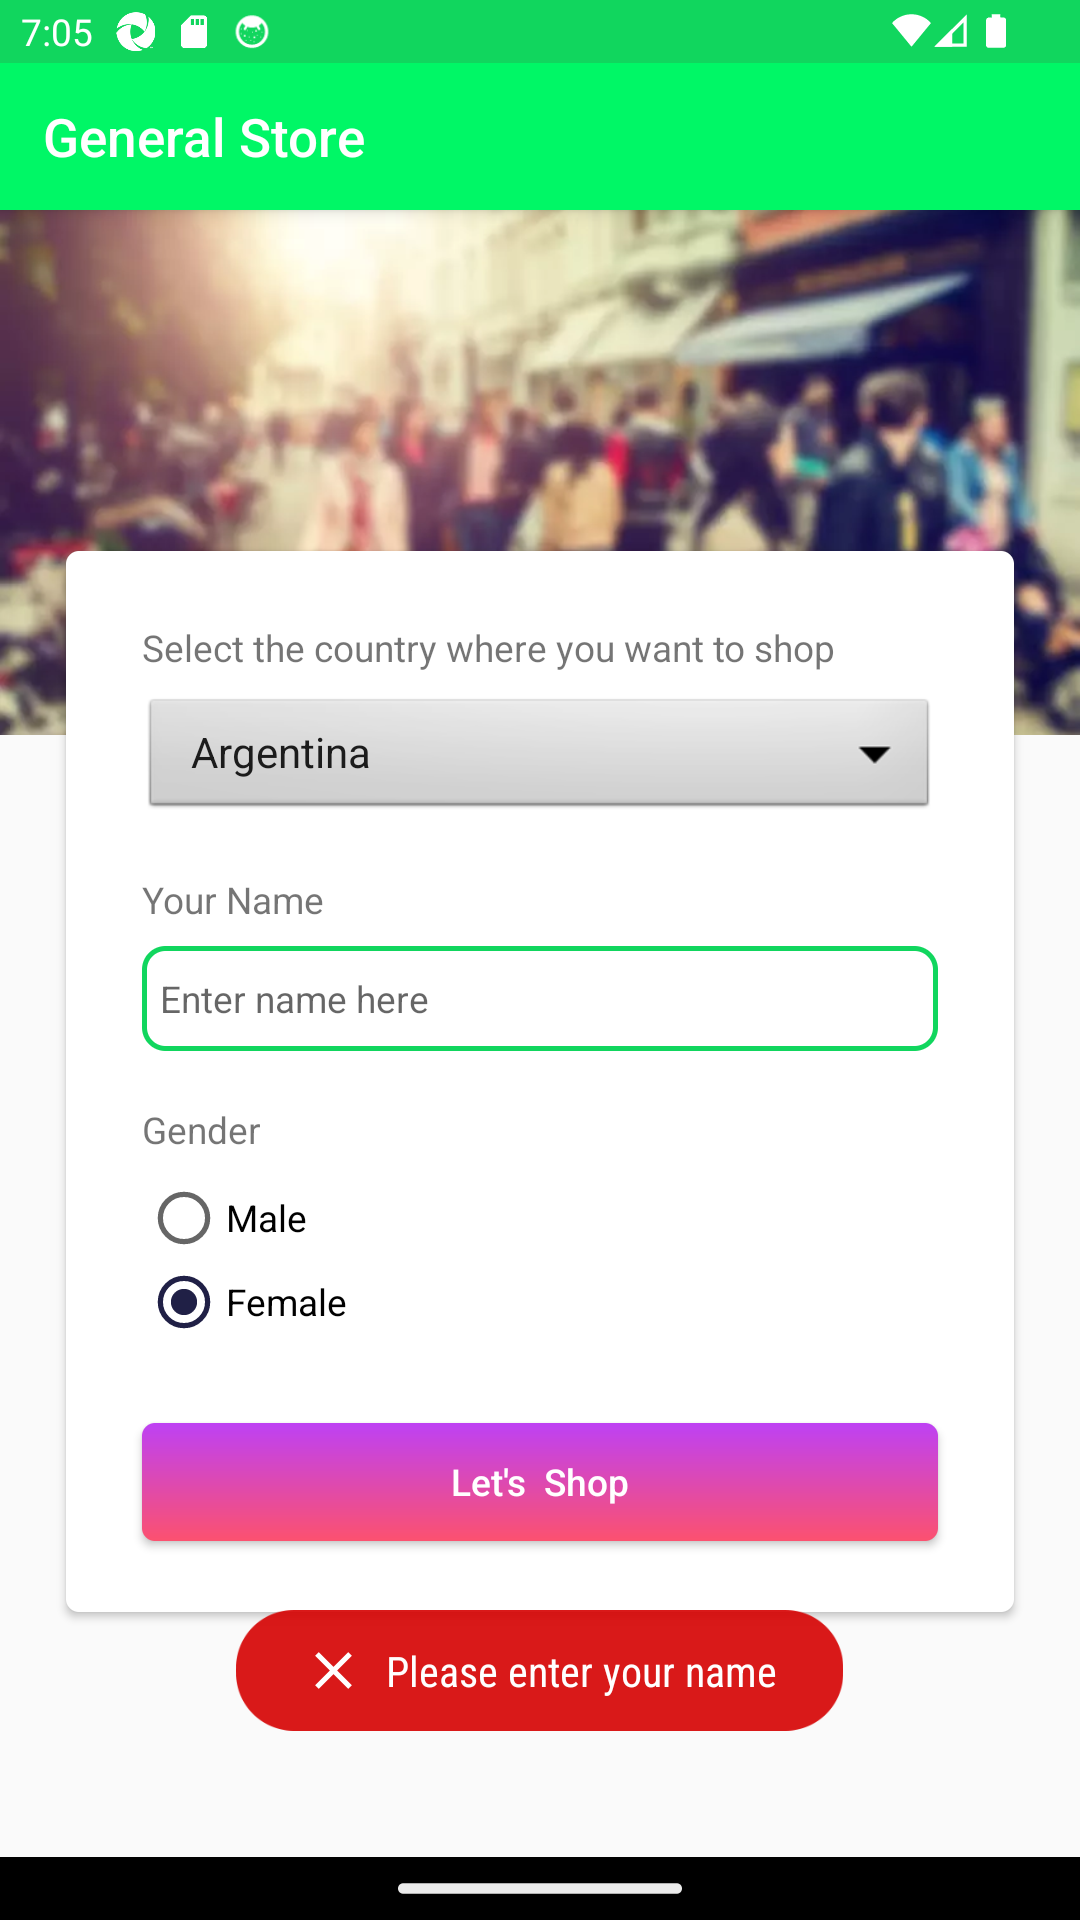
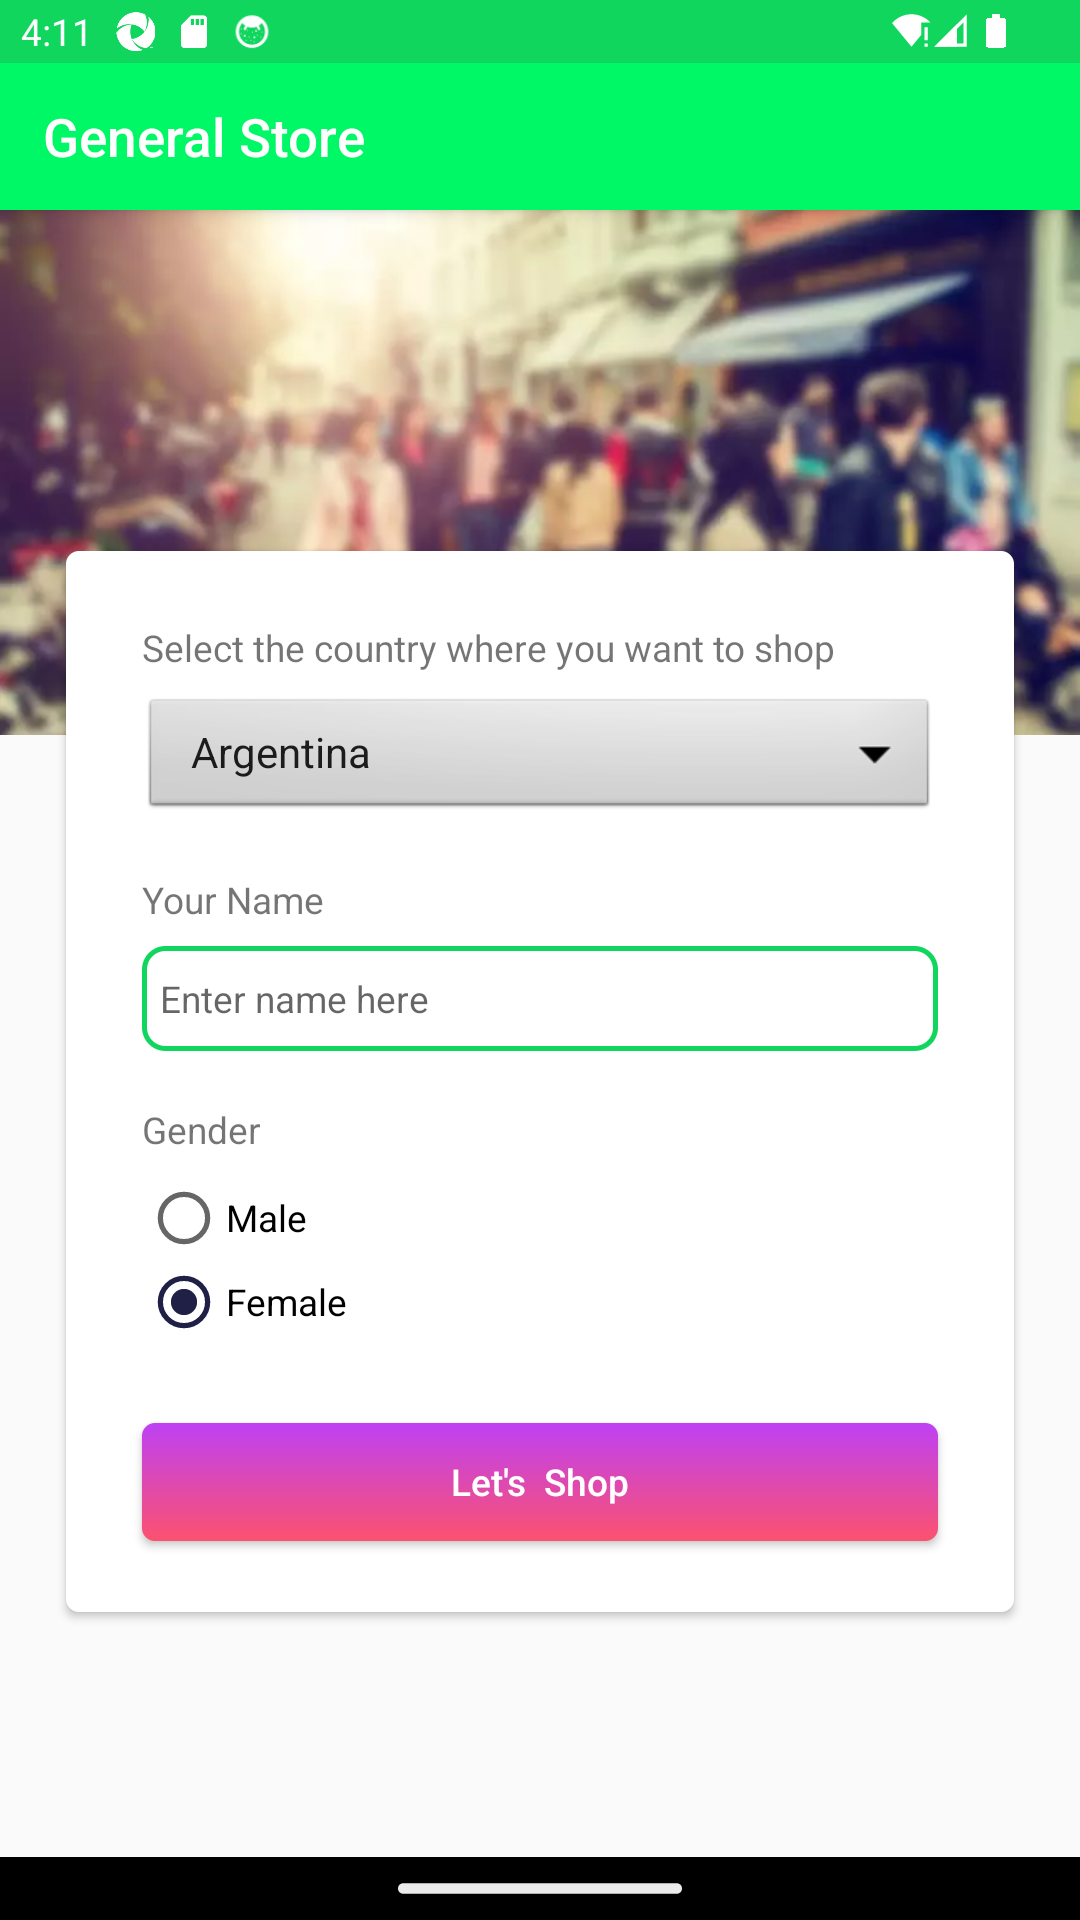
test

Changed region(s): [[0.2139, 0.8125, 0.7944, 0.9062], [0.0306, 0.0, 0.0917, 0.0312]]

diff --git a/reportes/index.html b/reportes/index.html
@@ -35,7 +35,7 @@
 <a href="#"><span class="badge badge-primary">Web Automation Result</span></a>
 </li>
 <li class="m-r-10">
-<a href="#"><span class="badge badge-primary">Jul 2, 2024 07:06:27 PM</span></a>
+<a href="#"><span class="badge badge-primary">Jul 4, 2024 04:12:02 PM</span></a>
 </li>
 </ul>
 </div>
@@ -81,7 +81,7 @@
           <div class="test-detail">
             <p class="name">dataProviderTest</p>
             <p class="text-sm">
-              <span>7:06:54 PM</span> / <span>00:00:30:246</span>
+              <span>4:12:35 PM</span> / <span>00:00:36:365</span>
               <span class="badge pass-bg log float-right">Pass</span>
             </p>
           </div>
@@ -90,9 +90,9 @@
 <div class="p-v-10">
 <div class="info">
 <h5 class="test-status text-pass">dataProviderTest</h5>
-<span class='badge badge-success'>07.02.2024 7:06:54 PM</span>
-<span class='badge badge-danger'>07.02.2024 7:07:25 PM</span>
-<span class='badge badge-default'>00:00:30:246</span>
+<span class='badge badge-success'>07.04.2024 4:12:35 PM</span>
+<span class='badge badge-danger'>07.04.2024 4:13:11 PM</span>
+<span class='badge badge-default'>00:00:36:365</span>
 &middot; <span class='uri-anchor badge badge-default'>#test-id=1</span>
 <span title='Skip to the next failed step' class='badge badge-danger pointer float-right ne ml-1'><i class="fa fa-fast-forward"></i></span>
 <span title='Collapse all nodes' class='badge badge-default pointer float-right ct ml-1'><i class="fa fa-compress"></i></span>
@@ -105,7 +105,7 @@
   <tbody>
       <tr class="event-row">
         <td><span class="badge log pass-bg">Pass</span></td>
-        <td>7:07:25 PM</td>
+        <td>4:13:11 PM</td>
         <td>
           Test Passed
         </td>
@@ -122,7 +122,7 @@
           <div class="test-detail">
             <p class="name">dataProviderTest</p>
             <p class="text-sm">
-              <span>7:07:36 PM</span> / <span>00:00:40:367</span>
+              <span>4:13:28 PM</span> / <span>00:00:48:231</span>
               <span class="badge pass-bg log float-right">Pass</span>
             </p>
           </div>
@@ -131,9 +131,9 @@
 <div class="p-v-10">
 <div class="info">
 <h5 class="test-status text-pass">dataProviderTest</h5>
-<span class='badge badge-success'>07.02.2024 7:07:36 PM</span>
-<span class='badge badge-danger'>07.02.2024 7:08:17 PM</span>
-<span class='badge badge-default'>00:00:40:367</span>
+<span class='badge badge-success'>07.04.2024 4:13:28 PM</span>
+<span class='badge badge-danger'>07.04.2024 4:14:16 PM</span>
+<span class='badge badge-default'>00:00:48:231</span>
 &middot; <span class='uri-anchor badge badge-default'>#test-id=2</span>
 <span title='Skip to the next failed step' class='badge badge-danger pointer float-right ne ml-1'><i class="fa fa-fast-forward"></i></span>
 <span title='Collapse all nodes' class='badge badge-default pointer float-right ct ml-1'><i class="fa fa-compress"></i></span>
@@ -146,7 +146,7 @@
   <tbody>
       <tr class="event-row">
         <td><span class="badge log pass-bg">Pass</span></td>
-        <td>7:08:17 PM</td>
+        <td>4:14:16 PM</td>
         <td>
           Test Passed
         </td>
@@ -170,13 +170,13 @@
 <div class="col-md-3">
 <div class="card"><div class="card-body">
 <p class="m-b-0">Started</p>
-<h3>Jul 2, 2024 07:06:27 PM</h3>
+<h3>Jul 4, 2024 04:12:02 PM</h3>
 </div></div>
 </div>
 <div class="col-md-3">
 <div class="card"><div class="card-body">
 <p class="m-b-0">Ended</p>
-<h3>Jul 2, 2024 07:08:18 PM</h3>
+<h3>Jul 4, 2024 04:14:18 PM</h3>
 </div></div>
 </div>
 <div class="col-md-3">
@@ -246,7 +246,7 @@
 </div></div>
 <script>
 var timeline = {
-"dataProviderTest":30.246,"dataProviderTest":40.367
+"dataProviderTest":36.365,"dataProviderTest":48.231
 };
 </script>
 <div class="row">

diff --git a/src/test/java/org/example/pageobject/android/BaseTest.java b/src/test/java/org/example/pageobject/android/BaseTest.java
@@ -65,7 +65,7 @@ public void driverStart()throws MalformedURLException, URISyntaxException{
             driver.manage().timeouts().implicitlyWait(Duration.ofSeconds(10));
 
              androidDriver = new AndroidAction(driver);
-            fromPage = new FromPage(driver);
+             //fromPage = new FromPage(driver);
 
 
     }

diff --git a/src/test/java/org/example/pageobject/android/Abc.java b/src/test/java/org/example/pageobject/android/Abc.java
@@ -1,0 +1,11 @@
+package org.example.pageobject.android;
+
+import io.appium.java_client.android.AndroidDriver;
+
+public class Abc {
+
+    public  void appmun(){
+
+    }
+
+}

diff --git a/src/main/java/org/example/utis/AndroidAction.java b/src/main/java/org/example/utis/AndroidAction.java
@@ -21,6 +21,8 @@ public class AndroidAction  extends  AppiumUtils{
        // super(driver); //parent class AppiumUtils theke arse
         this.driver=driver;
 
+
+
     }
 
 
